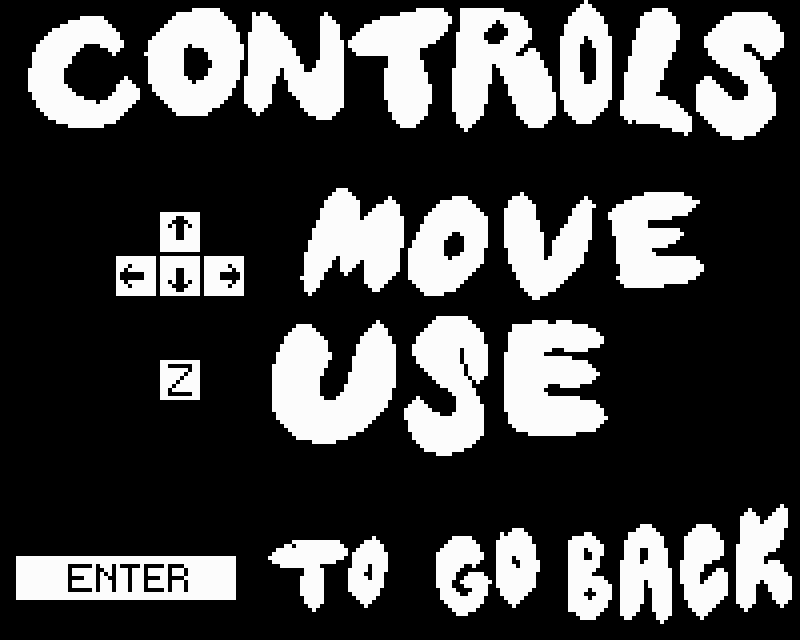
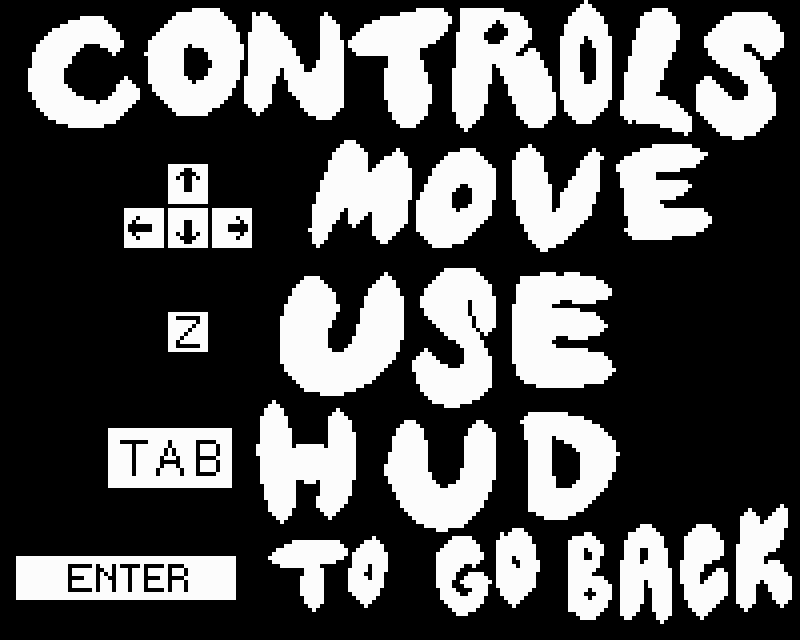
added how to, did parallax, fixed controls menu

Changed region(s): [[0.125, 0.2188, 0.9062, 0.8438], [0.125, 0.25, 0.3125, 0.625]]

diff --git a/src/Scenes/Hub.js b/src/Scenes/Hub.js
@@ -33,6 +33,7 @@ class Hub extends Phaser.Scene {
         this.life_text.visible = false;
         this.message_text = this.add.bitmapText(0, 0, 'pi', '', this.globals.HUD_FONT_SIZE).setOrigin(0.5);
         this.message_text.visible = false;
+        this.message_text.setDepth(14)
         // NEW
         this.keyIcon1 = this.add.sprite(0,0,'keyIcon')
         this.keyIcon1.visible = false;
@@ -57,6 +58,9 @@ class Hub extends Phaser.Scene {
         }
         //console.log(this.player.x, this.player.y)
         this.player.update()
+
+        //this.midgroundLayer.setScrollFactor(0.5)
+        //this.foregroundLayer.setScrollFactor(1.0)
     }
     HUDPopUp() {
         this.hud.visible = true
@@ -91,7 +95,7 @@ class Hub extends Phaser.Scene {
     init_map(scene)
     {
         scene.map = scene.make.tilemap({ key: 'hub' });
-        
+
         scene.black_tileset = scene.map.addTilesetImage("base_black", "tilemap_tiles")
 
         scene.backdropLayer = scene.map.createLayer("Backdrop", scene.black_tileset, 0, 0);
@@ -108,9 +112,23 @@ class Hub extends Phaser.Scene {
         scene.door3Layer = scene.map.createLayer("Door3", scene.black_tileset, 0, 0);
         scene.doorShopLayer = scene.map.createLayer("DoorShop", scene.black_tileset, 0, 0);
 
+        scene.backdropLayer.setDepth(0)
+        scene.backgroundLayer.setDepth(1)
+        scene.midgroundLayer.setDepth(2)
+        scene.treeBorderLayer.setDepth(3)
+        scene.walkableLayer.setDepth(4)
+        scene.shopLayer.setDepth(5)
+        scene.oneLayer.setDepth(6)
+        scene.twoLayer.setDepth(7)
+        scene.threeLayer.setDepth(8)
+        scene.door1Layer.setDepth(9)
+        scene.door2Layer.setDepth(10)
+        scene.door3Layer.setDepth(11)
+        scene.doorShopLayer.setDepth(12)
         scene.walkableLayer.setCollisionByProperty({ collides: true });
 
         scene.player = new Player(this, this.startX, this.startY, 'idle1', this.globals);
+        scene.player.setDepth(13)
         scene.player.setCollideWorldBounds(true);
         scene.walkableLayer.forEachTile((tile) => {
             if (tile.properties.platform) {
@@ -128,6 +146,9 @@ class Hub extends Phaser.Scene {
         scene.physics.add.overlap(scene.player, scene.doorShopLayer, handleItemOverlap, checkIsDoor, this);
         scene.physics.add.collider(scene.player, scene.walkableLayer);
         scene.physics.add.collider(scene.player, scene.oneLayer);
+
+
+        this.backgroundLayer.setScrollFactor(0.2)
     }
     init_cam(scene)
     {

diff --git a/src/Scenes/Start.js b/src/Scenes/Start.js
@@ -19,11 +19,17 @@ class Start extends Phaser.Scene {
 
         this.controls = this.input.keyboard.addKey(Phaser.Input.Keyboard.KeyCodes.Z);
 
+        this.how = this.add.sprite(400,320,'howTo');
+        this.how.visible = false;
     }
     update(delta) {
 
         if (this.enter.isDown) {
-            this.scene.start("Hub")
+            this.how.visible = true;
+            this.time.delayedCall(3000, () => {
+                this.how.visible = false;
+                this.scene.start("Hub")
+            }, [], this);
         }
 
         if (this.credits.isDown) {

diff --git a/src/Scenes/Load.js b/src/Scenes/Load.js
@@ -22,6 +22,8 @@ class Load extends Phaser.Scene {
         this.load.image('hud', 'menus/hud.png')
         this.load.image('credits', 'menus/credits.png')
         this.load.image('keyIcon', 'menus/keyIcon.png')
+        this.load.image('howTo', 'menus/howto.png')
+        
 
         //Load in animation frames
         this.load.image("death", "player-anims/death.png");

diff --git a/src/Scenes/Shop.js b/src/Scenes/Shop.js
@@ -129,6 +129,7 @@ class Shop extends Phaser.Scene {
         scene.physics.add.overlap(scene.player, scene.doorsLayer, this.handleItemOverlap, checkIsDoor, this);
 
         scene.physics.add.collider(scene.player, scene.walkableLayer);
+        this.backgroundLayer.setScrollFactor(0.2)
     }
 
     init_cam(scene) {

diff --git a/src/Scenes/Level1.js b/src/Scenes/Level1.js
@@ -220,6 +220,7 @@ class Level1 extends Phaser.Scene {
 
         scene.physics.add.collider(scene.player, scene.walkableLayer);
         scene.physics.add.collider(scene.player, scene.platformLayer);
+        this.backgroundLayer.setScrollFactor(0.2)
     }
 
     init_cam(scene) {

diff --git a/src/Scenes/Level2.js b/src/Scenes/Level2.js
@@ -216,6 +216,7 @@ class Level2 extends Phaser.Scene {
 
         scene.physics.add.collider(scene.player, scene.walkableLayer);
         scene.physics.add.collider(scene.player, scene.platformLayer);
+        this.backgroundLayer.setScrollFactor(0.2)
     }
 
     init_cam(scene) {

diff --git a/src/Scenes/Level3.js b/src/Scenes/Level3.js
@@ -210,6 +210,7 @@ class Level3 extends Phaser.Scene {
 
         scene.physics.add.collider(scene.player, scene.walkableLayer);
         scene.physics.add.collider(scene.player, scene.platformLayer);
+        this.backgroundLayer.setScrollFactor(0.2)
     }
 
     init_cam(scene) {
